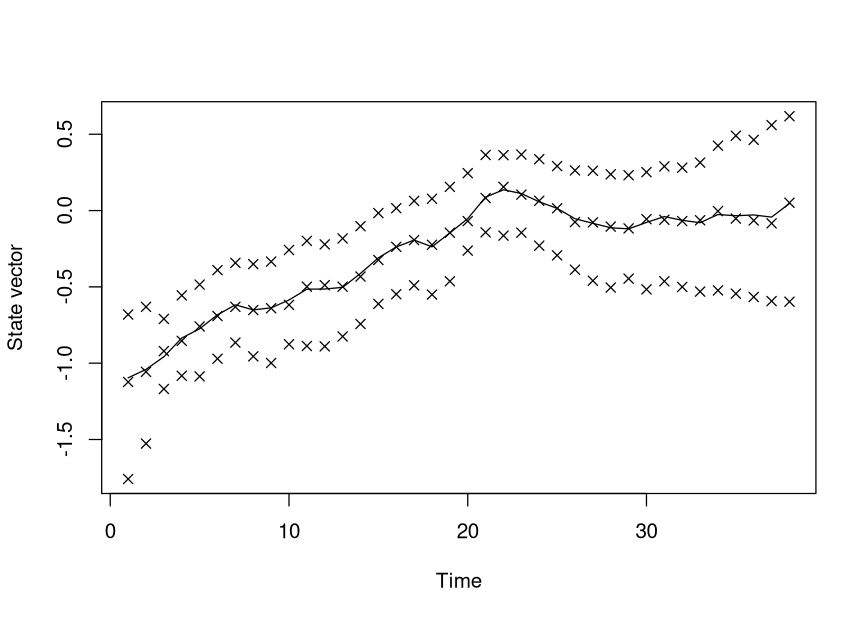
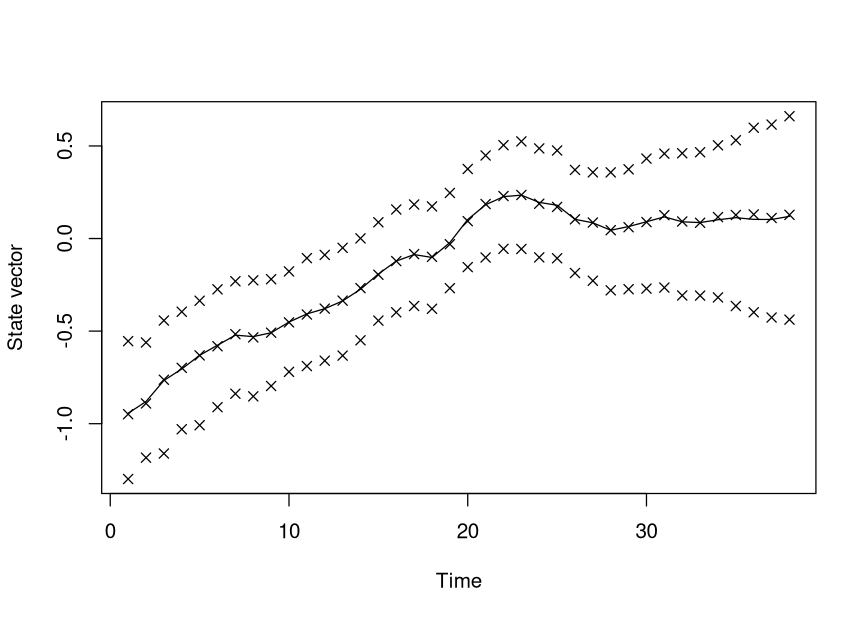
Restore the original particle-fit settings in the README

diff --git a/README.md b/README.md
@@ -93,7 +93,7 @@ Compare the dashed confidence bounds in the first plot with the bootstrap quanti
 
 ## Example - particle filter and smoother
 
-This example fits a particle filter and smoother to the same data. Gender has a time-varying effect in both examples. This fit uses 200 particles for the forward and backward filters. The final call uses more particles to estimate the log-likelihood.
+This example fits a particle filter and smoother to the same data. Gender has a time-varying effect in both examples. This fit uses 1,000 particles for the forward and backward filters. The final call uses more particles to estimate the log-likelihood.
 
 ``` r
 set.seed(seed = 20170907)
@@ -103,11 +103,11 @@ pf_fit <- PF_EM(
   data = aids, model = "exponential",
   by = .5,  max_T = 19, Q = .5^2, Q_0 = 1,
   control = PF_control(
-    n_threads = 2,
-    N_fw_n_bw = 200, N_first = 200, N_smooth = 1,
+    n_threads = 4,
+    N_fw_n_bw = 1000, N_first = 1000, N_smooth = 1,
     smoother = "Brier_O_N_square",
-    eps = 0.001, n_max = 150L, est_a_0 = FALSE, nu = 6L,
-    covar_fac = 1.2, averaging_start = 50L))
+    eps = 1e-5, n_max = 1000, est_a_0 = FALSE, nu = 6L,
+    covar_fac = 1.2, averaging_start = 150L))
 #> a_0 not supplied. IWLS estimates of static glm model is used for random walk models. Otherwise the values are zero
 ```
 
@@ -115,7 +115,7 @@ pf_fit <- PF_EM(
 # Compare the state innovation variances per month.
 pf_fit$Q / 0.5
 #>            gendermale
-#> gendermale 0.05301833
+#> gendermale 0.04215704
 fit$Q
 #>            gendermale
 #> gendermale 0.01648568
@@ -132,13 +132,13 @@ plot(x = pf_fit$log_likes, xlab = "Iteration", ylab = "Log-likelihood")
 
 ``` r
 logLik(object = pf_fit)
-#> 'log Lik.' -796.1694 (df=5)
+#> 'log Lik.' -795.8261 (df=5)
 ```
 
 ``` r
 # better estimate of final log-likelihood
 logLik(object = PF_forward_filter(x = pf_fit, N_fw = 10000, N_first = 10000))
-#> 'log Lik.' -795.9732 (df=NA)
+#> 'log Lik.' -795.9264 (df=NA)
 ```
 
 The log-likelihood plot shows how the fit changes over the iterations. See the [particle filtering vignette](vignettes/Particle_filtering.pdf) for details.
